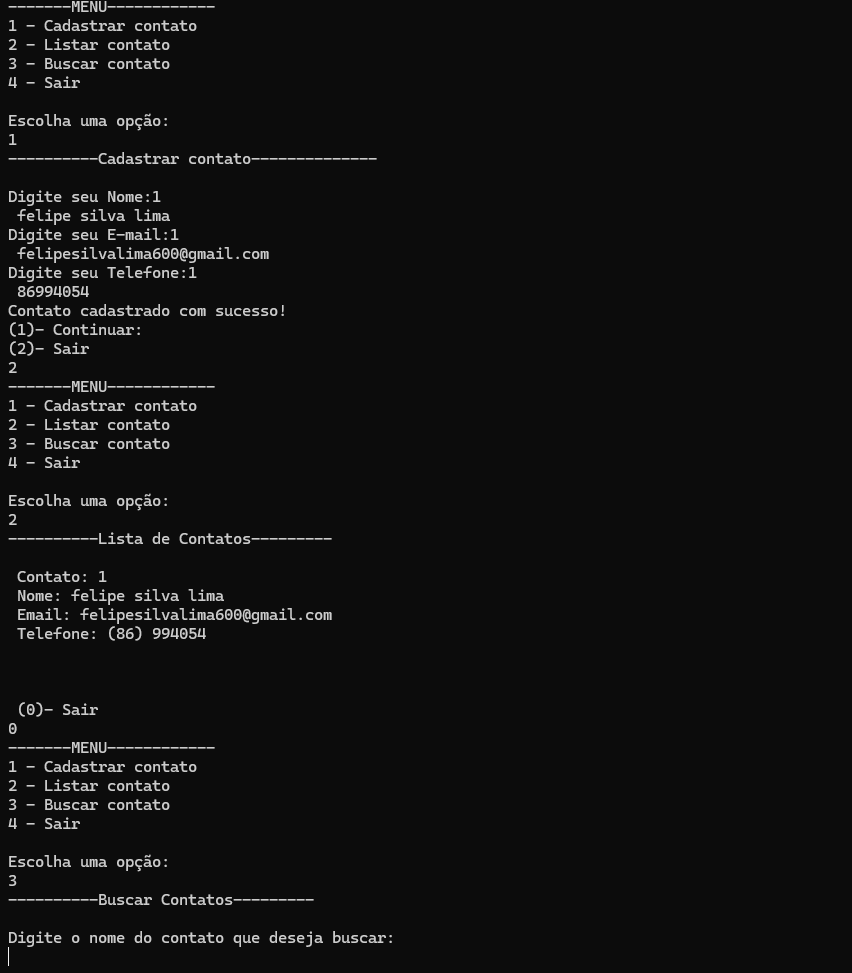
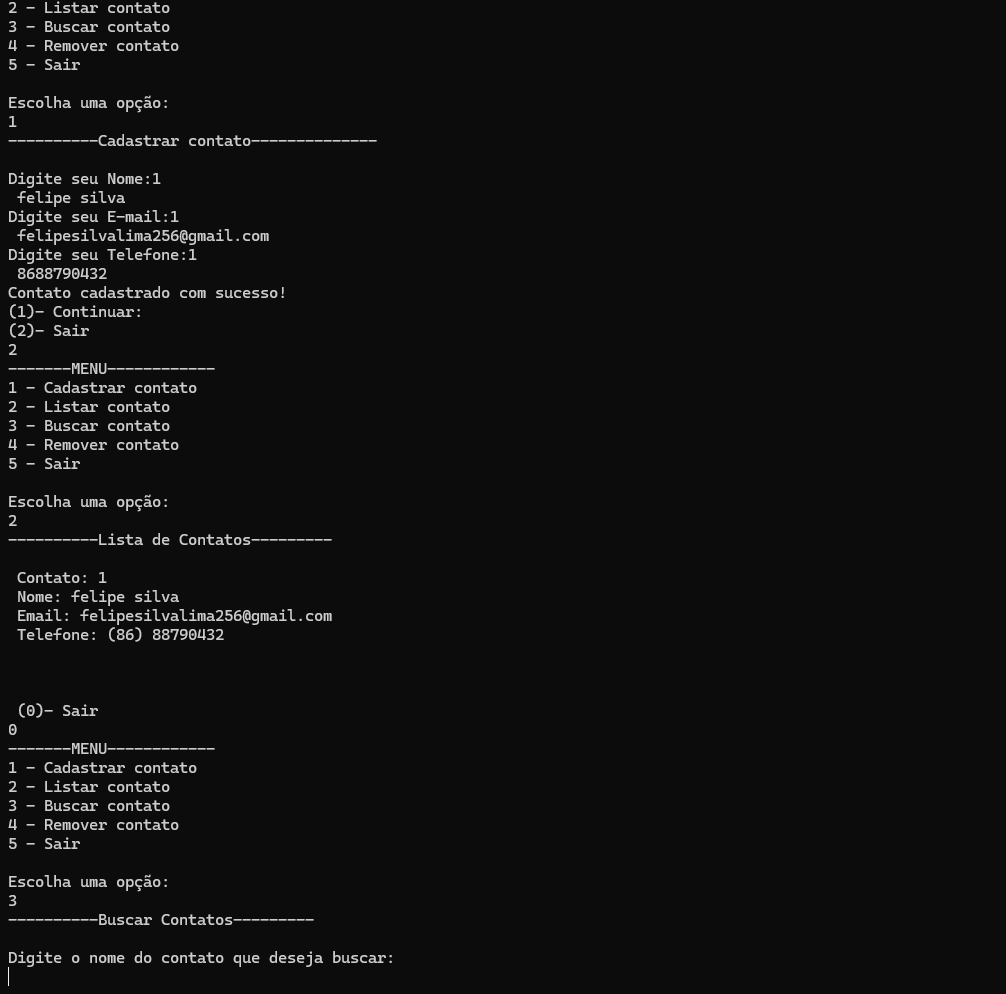
Opção de remover contato

Changed region(s): [[0.0, 0.0, 0.3357, 0.6783], [0.0, 0.7091, 0.4577, 0.9866], [0.3662, 0.6166, 0.3967, 0.6475]]

diff --git a/AgendaContatos.c b/AgendaContatos.c
@@ -12,9 +12,10 @@ struct Contato
 int main(){
 
     //funções
-    int cadastrarConato(int TotalContatos, int Sair, struct Contato *ct);
-    void listaContatos(int receber_total_cadastro, int contato_encontrado, int Sair, struct Contato *ct);
-    void BuscaContato(char BuscarNome[50],int receber_total_cadastro, int contato_encontrado, int Sair, struct Contato *ct );
+    int cadastrarConato(int receber_novo_total_cadastro, int TotalContatos, int Sair, struct Contato *ct);
+    void listaContatos(int receber_novo_total_cadastro, int contato_encontrado, int Sair, struct Contato *ct);
+    void BuscaContato(char BuscarNome[50],int receber_novo_total_cadastro, int contato_encontrado, int Sair, struct Contato *ct );
+    int RemoverContato(int receber_novo_total_cadastro, struct Contato *ct);
     
     //declaração de variáveis e constante
     struct Contato ct;
@@ -25,9 +26,9 @@ int main(){
     int Opcao;
     char BuscarNome[50];
     int Sair;
-    int i;
     int contato_encontrado = 0;
     int receber_total_cadastro = 0;
+    int receber_novo_total_cadastro = 0;
 
 
    while(Sair != 1)//laço do inicio do programa
@@ -38,32 +39,41 @@ int main(){
         printf("1 - Cadastrar contato\n");
             printf("2 - Listar contato\n");
                 printf("3 - Buscar contato\n");
-                    printf("4 - Sair\n\n");
-                        printf("Escolha uma opção:\n");
-                            scanf("%d", &Opcao);
+                    printf("4 - Remover contato\n");
+                        printf("5 - Sair\n\n");
+                            printf("Escolha uma opção:\n");
+                                scanf("%d", &Opcao);
 
-                                if(Opcao == 1 || Opcao == 2 || Opcao == 3 || Opcao == 4)//opcões do menu
+                                if(Opcao == 1 || Opcao == 2 || Opcao == 3 || Opcao == 4|| Opcao == 5)//opcões do menu
                                 {
 
                                     if(Opcao == 1)// opção de cadastrar contato
                                     {
-                                        receber_total_cadastro = cadastrarConato( TotalContatos,  Sair, &ct);
+                                        receber_total_cadastro = cadastrarConato(receber_novo_total_cadastro, TotalContatos,  Sair, &ct);
+                                        receber_novo_total_cadastro += receber_total_cadastro;          
                                     }
                                         else
                                         {
                                             if(Opcao == 2)//opção de lista todos os contatos
                                             {
-                                                listaContatos( receber_total_cadastro,  contato_encontrado,  Sair, &ct);              
+                                                listaContatos( receber_novo_total_cadastro,  contato_encontrado,  Sair, &ct);              
                                             }
                                                 else
                                                 {
                                                     if(Opcao == 3)//opção de buscar um contato especifico
                                                     {
-                                                        BuscaContato( BuscarNome, receber_total_cadastro,  contato_encontrado,  Sair, &ct ) ;   
+                                                        BuscaContato( BuscarNome, receber_novo_total_cadastro,  contato_encontrado,  Sair, &ct ) ;   
                                                     }
                                                         else
                                                         {
-                                                            if(Opcao == 4){ break;}// opção de sair do programa
+                                                            if(Opcao == 4)//opção para remover contato
+                                                            {
+                                                               receber_novo_total_cadastro = RemoverContato(receber_novo_total_cadastro, &ct);
+                                                            }
+                                                                else
+                                                                {
+                                                                    if(Opcao == 5){ break;}// opção de sair do programa
+                                                                }
                                                         }
                                                     
                                                 } 
@@ -82,20 +92,20 @@ int main(){
 }
 
 
-int cadastrarConato(int TotalContatos, int Sair, struct Contato *ct)
+int cadastrarConato(int receber_novo_total_cadastro, int TotalContatos, int Sair, struct Contato *ct)
 {
     printf("----------Cadastrar contato--------------\n\n");
-    for (int i = 0; i < MAX_CONTATO; i++) // laço do inicio da opção de cadastro de contatos
+    for (int i = receber_novo_total_cadastro; i < MAX_CONTATO; i++) // laço do inicio da opção de cadastro de contatos
     { 
-        printf("Digite seu Nome:%d\n ", i+ 1);//inputs
+        printf("Digite seu Nome:%d\n ", i+1);//inputs
           while (getchar() != '\n');
             fgets(ct->Nome[i], 30, stdin);
 
-                    printf("Digite seu E-mail:%d\n ", i+ 1);
+                    printf("Digite seu E-mail:%d\n ", i+1);
                         scanf("%49s", ct->Email[i]);
                             while (getchar() != '\n');
 
-                            printf("Digite seu Telefone:%d\n ", i+ 1);
+                            printf("Digite seu Telefone:%d\n ", i+1);
                                 scanf("%19s", ct->Telefone[i]);
                                     while (getchar() != '\n');
 
@@ -137,10 +147,10 @@ int cadastrarConato(int TotalContatos, int Sair, struct Contato *ct)
 
 }
 
-void listaContatos(int receber_total_cadastro, int contato_encontrado, int Sair, struct Contato *ct)
+void listaContatos(int receber_novo_total_cadastro, int contato_encontrado, int Sair, struct Contato *ct)
 {
     printf("----------Lista de Contatos---------\n\n");
-    for(int i = 0; i < receber_total_cadastro; i++)// laço que vai lista todos os contatos existentes
+    for(int i = 0; i < receber_novo_total_cadastro; i++)// laço que vai lista todos os contatos existentes
     {
         contato_encontrado = 1;
 
@@ -170,7 +180,7 @@ void listaContatos(int receber_total_cadastro, int contato_encontrado, int Sair,
 
 }
 
-void BuscaContato(char BuscarNome[50],int receber_total_cadastro, int contato_encontrado, int Sair, struct Contato *ct )
+void BuscaContato(char BuscarNome[50],int receber_novo_total_cadastro, int contato_encontrado, int Sair, struct Contato *ct )
 {
        printf("----------Buscar Contatos---------\n \n");            
        for(int i = 0; i < MAX_CONTATO; i++)//laço do inicio da opção
@@ -181,7 +191,7 @@ void BuscaContato(char BuscarNome[50],int receber_total_cadastro, int contato_en
                 fgets(BuscarNome, 50, stdin);
                  printf("\n");
 
-           for(i = 0; i < receber_total_cadastro; i++)// laço que vai verificar todas os posições do array nome
+           for(i = 0; i < receber_novo_total_cadastro; i++)// laço que vai verificar todas os posições do array nome
            {
 
                 if(strcmp(ct->Nome[i], BuscarNome) == 0)// verificando se existe o nome, para poder lista o contato especifico
@@ -214,4 +224,73 @@ void BuscaContato(char BuscarNome[50],int receber_total_cadastro, int contato_en
                              if(Sair == 2){break;}
        }
 
+}
+
+int RemoverContato(int receber_novo_total_cadastro, struct Contato *ct)
+{
+    int contato_encontrado = 0;
+    int opcao = 0;
+    int contato = 0;
+    int receber_result_final = 0;
+
+    printf("----------Lista de Contatos---------\n\n");
+
+    for(int i = 0; i < receber_novo_total_cadastro; i++)// laço que vai lista todos os contatos existentes
+    {
+       contato_encontrado = 1;
+    
+       printf(" Contato: %d\n ",i+1);
+           printf("Nome: %s", ct->Nome[i]);
+               printf(" Email: %s\n", ct->Email[i]);
+                   printf(" Telefone: (%c%c) %s \n\n", ct->Telefone[i][0],ct->Telefone[i][1], &ct->Telefone[i][2]);
+    
+    }
+    
+       if(contato_encontrado == 0)//contato não encotrado
+       {
+           printf("Nenhum Contato encontrado\n");
+       }
+    
+           contato_encontrado = 0;
+    
+           printf("\n\n ");
+                printf(" (1)- Remover Contato\n");//input para Remover da opção
+                printf(" (2)- Sair\n");//input para sair da opção
+           scanf("%d", &opcao);
+    
+           while(opcao != 0 && opcao != 1)//validação de saida da opção
+           {
+                printf(" (1)- Remover Contato\n");//input para Remover da opção
+                printf(" (2)- Sair\n");//input para sair da opção
+                scanf("%d", &opcao);         
+           }
+
+           if(opcao == 1)
+           {
+                printf("Digite o número do Contato\n");
+                scanf("%d", &contato);
+
+                while(contato == 0 || contato > receber_novo_total_cadastro)
+                {
+                    printf("Digite o número do Contato\n");
+                    scanf("%d", &contato);
+                }
+
+                if(contato == 1)
+                {
+                    contato = 0;
+                }
+
+                for(int x = contato; x < receber_novo_total_cadastro; x++)
+                {
+                    strcpy(ct->Nome[x],ct->Nome[x + 1]);
+                    strcpy(ct->Email[x],ct->Email[x + 1]);
+                    strcpy(ct->Telefone[x],ct->Telefone[x + 1]);
+                }
+
+                printf("Contato Removido sucesso!\n");
+                receber_novo_total_cadastro--;
+                receber_result_final = receber_novo_total_cadastro;
+                return receber_result_final;
+           }
 }
